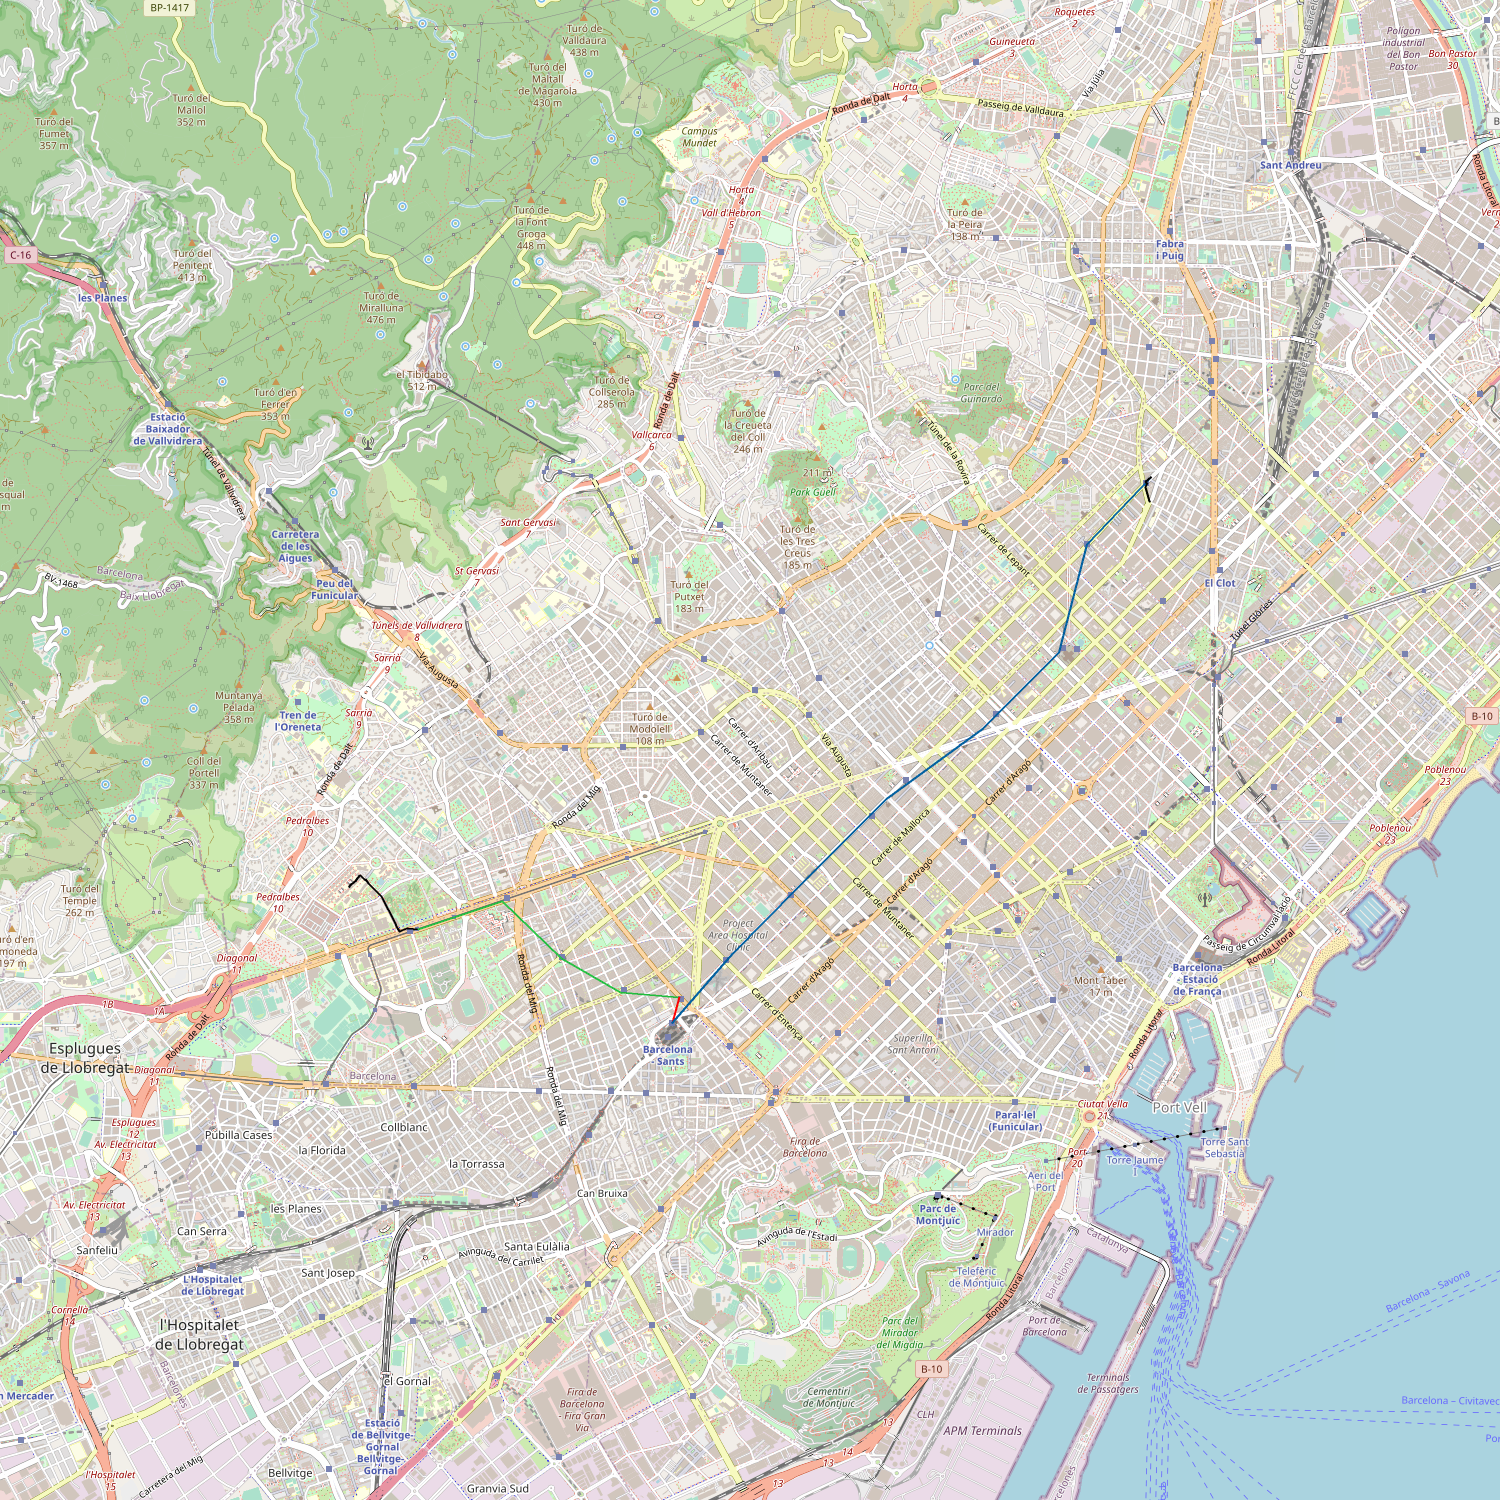
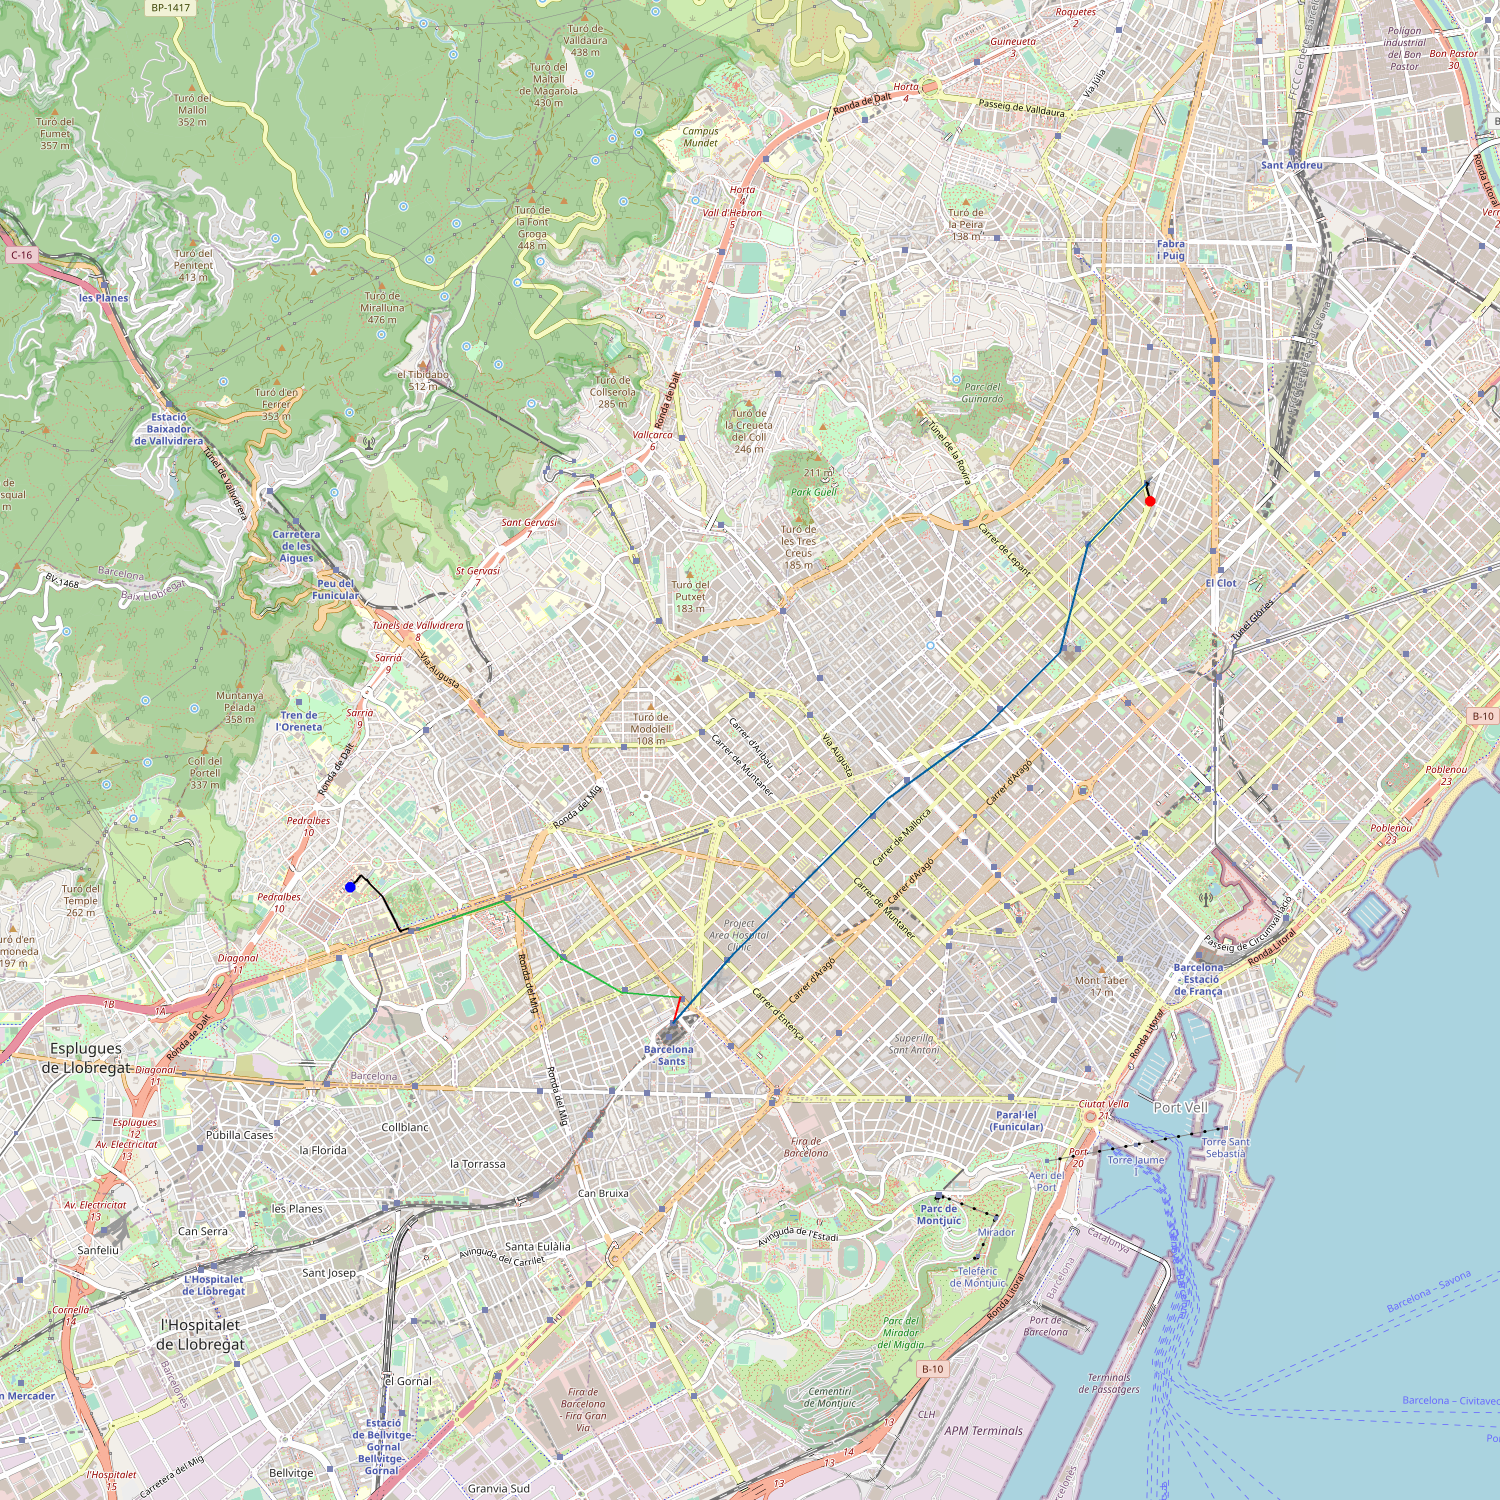
petits cambis

Changed region(s): [[0.0, 0.0, 1.0, 1.0], [0.92, 0.8587, 0.9507, 0.8893]]

diff --git a/city.py b/city.py
@@ -5,7 +5,7 @@ import metro
 import pandas as pd
 import osmnx as ox
 import networkx as nx
-from staticmap import StaticMap, CircleMarker, Line
+from staticmap import StaticMap, CircleMarker, Line, IconMarker
 import matplotlib.pyplot as plt
 from dataclasses import dataclass
 from typing import Optional, TextIO, List, Tuple, Dict, Union
@@ -55,8 +55,8 @@ def get_osmnx_graph() -> OsmnxGraph:
 
             for edge in graph.edges:
                 distance = walking_street_distance(graph, edge[0], edge[1])
-                graph.edges[edge]["distance"]=distance
-                graph.edges[edge]["travel_time"] =  distance/WALKING_SPEED
+                graph.edges[edge]["distance"] = distance
+                graph.edges[edge]["travel_time"] = distance/WALKING_SPEED
                 graph.edges[edge]["type"] = 'street'
 
             save_osmnx_graph(graph, PICKLE_FILENAME)
@@ -99,7 +99,7 @@ def load_osmnx_graph(filename: str) -> OsmnxGraph:
         return pkl.load(pickle_in)
 
 
-def nearest_nodes(g1: OsmnxGraph, g2: MetroGraph) -> [List[int], List[int], List[float]]:
+def nearest_nodes(g1: OsmnxGraph, g2: MetroGraph) -> Tuple[List[int], List[int], List[float]]:
     '''
     Given a OsmnxGraph g1 and a MetroGraph g2 returns a list which contains a list with the ids of the access nodes,
     a list with the nearest node in g1 to each access node in g2 tohether with a list which contains the corresponding
@@ -208,25 +208,30 @@ def plot_path(g: CityGraph, p: Path, filename: str, orig: Coord, dest: Coord) ->
                      edge_color(g, prev_node, node), 2))
         prev_node = node
 
+    map.add_marker(CircleMarker(g.nodes[p[0]]['pos'], 'blue', 10))
+    map.add_marker(CircleMarker(g.nodes[p[-1]]['pos'], 'red', 10))
+
     image = map.render()
     image.save(filename)
 
-def path_time_dist(g: CityGraph, p: Path, src: Coord, dst: Coord)->Tuple(float,int):
+
+def path_time_dist(g: CityGraph, p: Path, src: Coord, dst: Coord) -> Tuple[float, int]:
     '''Returns time and distance for a path'''
     time = 0
 
     if len(p) != 0:
-        dist=haversine(src,g[p[0]]["pos"],unit="m")
-        distance+=dist
-        time+=dist/WALKING_SPEED
-        dist=haversine(g[p[len(p)-1]]["pos"],dst,unit="m")
-        distance+=dist
-        time+=dist/WALKING_SPEED
+        dist = haversine(src, g[p[0]]["pos"], unit="m")
+        distance += dist
+        time += dist/WALKING_SPEED
+        dist = haversine(g[p[len(p)-1]]["pos"], dst, unit="m")
+        distance += dist
+        time += dist/WALKING_SPEED
         n1 = p[0]
     for id in p[1:]:
-        distance+=g.edges[(n1,id)]["distance"]
-        time+=g.edges[(n1,id)]["travel_time"]
-    return distance,time
+        distance += g.edges[(n1, id)]["distance"]
+        time += g.edges[(n1, id)]["travel_time"]
+    return distance, time
+
 
 def show(g: CityGraph) -> None:
     '''Shows the CityGraph g in a interative window'''

diff --git a/bot.py b/bot.py
@@ -31,23 +31,24 @@ rest = restaurants.read()
 
 
 @dataclass
-class user:
+class User:
     location: Coord
-    current_search: restaurants
+    current_search: restaurants.Restaurants
     name: str
 
 
 def start(update, context):
-    current_user = user(None, None, "usuari")
+    current_user = User(None, None, "usuari")
     context.user_data["user"] = current_user
     context.bot.send_message(
         chat_id=update.effective_chat.id, text="Hola! Soc un bot bàsic.")
 
 
 def help(update, context):
-    context.bot.send_message(
-        chat_id=update.effective_chat.id, text="Ajuda inexistent aquí"
-    )
+    with open('help_msg.txt', 'r') as msg:
+        context.bot.send_message(
+            chat_id=update.effective_chat.id, text=msg.read(), parse_mode='Markdown'
+        )
 
 
 def author(update, context):
@@ -67,7 +68,7 @@ def where(update, context):
 def plot_metro(update, context):
     try:
         file = "%d.png" % random.randint(1000000, 9999999)
-        metro.plot(g, file)
+        metro.plot(metro_graph, file)
         context.bot.send_photo(
             chat_id=update.effective_chat.id,
             photo=open(file, 'rb'))
@@ -81,13 +82,12 @@ def plot_metro(update, context):
 
 def find(update, context):
     try:
-        query = ""
-        for word in context.args:
-            query += (" "+word)
+        query = update.message.text[6:]
+        print(query)
+        rest = restaurants.read()
         search = restaurants.find(query, rest)
         message = ""
-        for i in range(len(search)):
-            res = search[i]
+        for i, res in enumerate(search):
             message += str(i)+". "+res.name+"\n"
         context.user_data['user'].current_search = search
         context.bot.send_message(
@@ -140,7 +140,7 @@ def guide(update, context):
             text='💣')
 
 
-    # crea objectes per treballar amb Telegram
+# crea objectes per treballar amb Telegram
 updater = Updater(token=TOKEN, use_context=True)
 dispatcher = updater.dispatcher
 
@@ -152,7 +152,6 @@ dispatcher.add_handler(CommandHandler('author', author))
 dispatcher.add_handler(MessageHandler(Filters.location, where))
 dispatcher.add_handler(CommandHandler('plot_metro', plot_metro))
 dispatcher.add_handler(CommandHandler('find', find))
-dispatcher.add_handler(MessageHandler(Filters.location, where))
 dispatcher.add_handler(CommandHandler('info', info))
 dispatcher.add_handler(CommandHandler('guide', guide))
 
